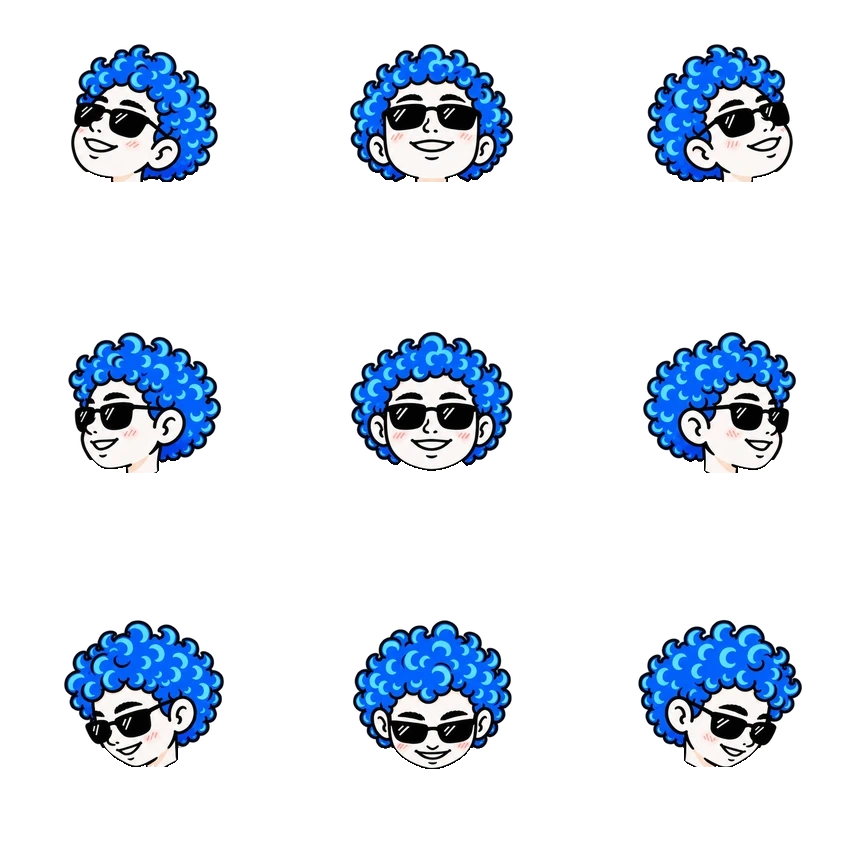
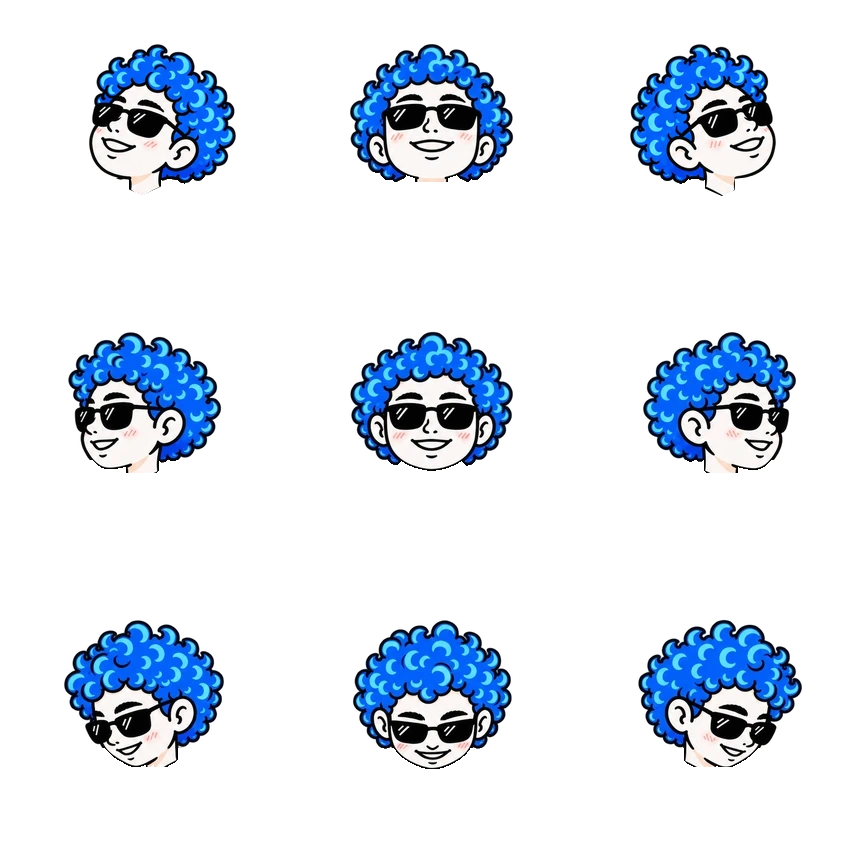
Align mascot upper diagonal turns at the collar

Changed region(s): [[0.7188, 0.0312, 0.9375, 0.2188], [0.0625, 0.0312, 0.2812, 0.2188]]

diff --git a/src/components/MoaazMascot.tsx b/src/components/MoaazMascot.tsx
@@ -3,7 +3,7 @@
 import { useEffect, useRef, useState } from 'react';
 import type { CSSProperties } from 'react';
 
-const directions = '/mascots/moaaz-head-directions.webp';
+const directions = '/mascots/moaaz-head-directions.webp?v=neck-aligned';
 const reactions = '/mascots/moaaz-head-reactions.webp';
 const hoodie = '/mascots/moaaz-hoodie-body.svg';
 const center = 4;

diff --git a/characters/moaaz/README.md b/characters/moaaz/README.md
@@ -10,7 +10,7 @@ The homepage uses the `page-mascot` React component through Astro, with click/ta
 
 ## Cream hoodie edition
 
-The two `moaaz-hoodie-*.webp` atlases in `public/mascots` retain the complete cream hoodie portraits. The site serves the corresponding `moaaz-head-*.webp` atlases above a single fixed `moaaz-hoodie-body.svg`. Its lower edge fades to transparency so the page texture shows through. Each atlas uses 288px square cells with a shared portrait baseline. Directions use the same 3×3 order as the original; the 4×4 reactions are in this row-major order:
+The two `moaaz-hoodie-*.webp` atlases in `public/mascots` retain the complete cream hoodie portraits. The site serves the corresponding `moaaz-head-*.webp` atlases above a single fixed `moaaz-hoodie-body.svg`. Its lower edge fades to transparency so the page texture shows through. Each atlas uses 288px square cells with a shared portrait baseline. The upper-left and upper-right frames are aligned at the neck to the same fixed collar, without scaling the heads or moving the shoulders. Directions use the same 3×3 order as the original; the 4×4 reactions are in this row-major order:
 
 1. Calm, cheerful, laughing, affectionate
 2. Surprised, starstruck, bashful, skeptical
